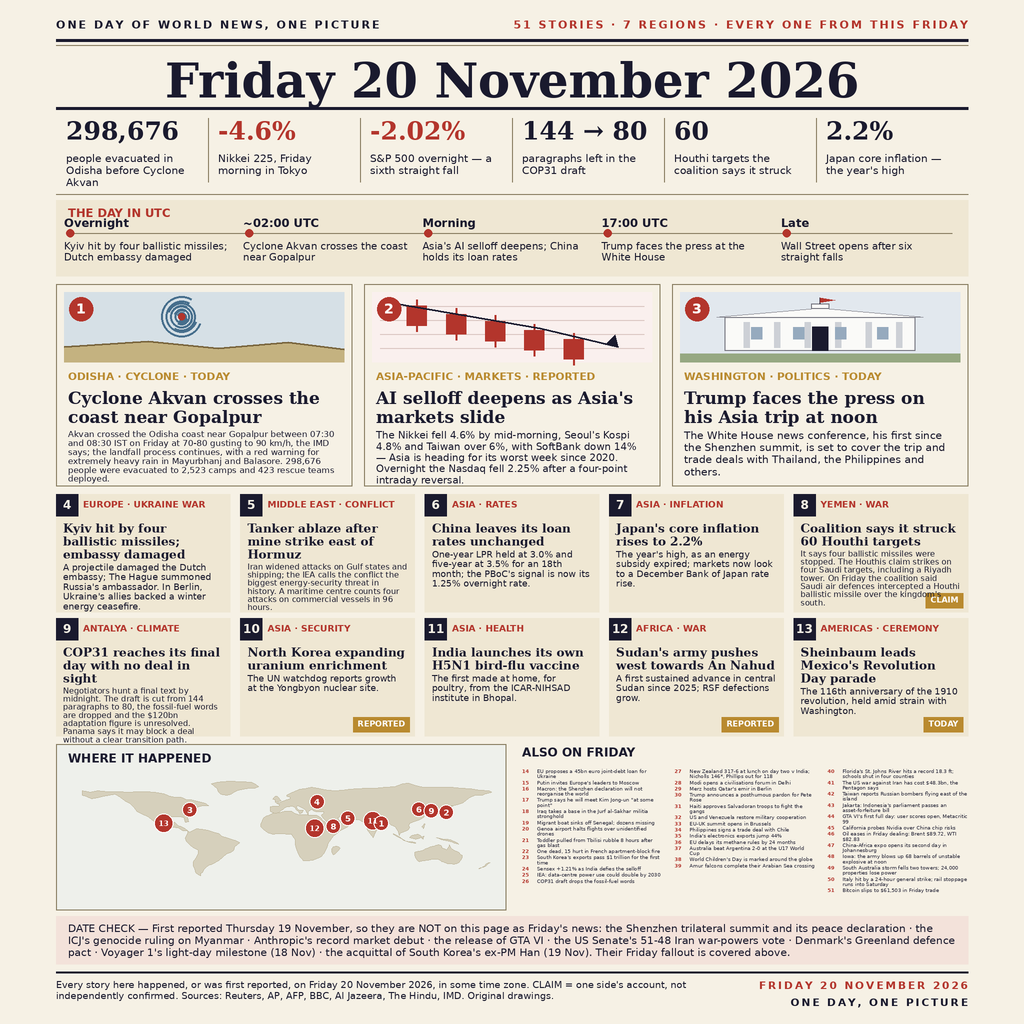
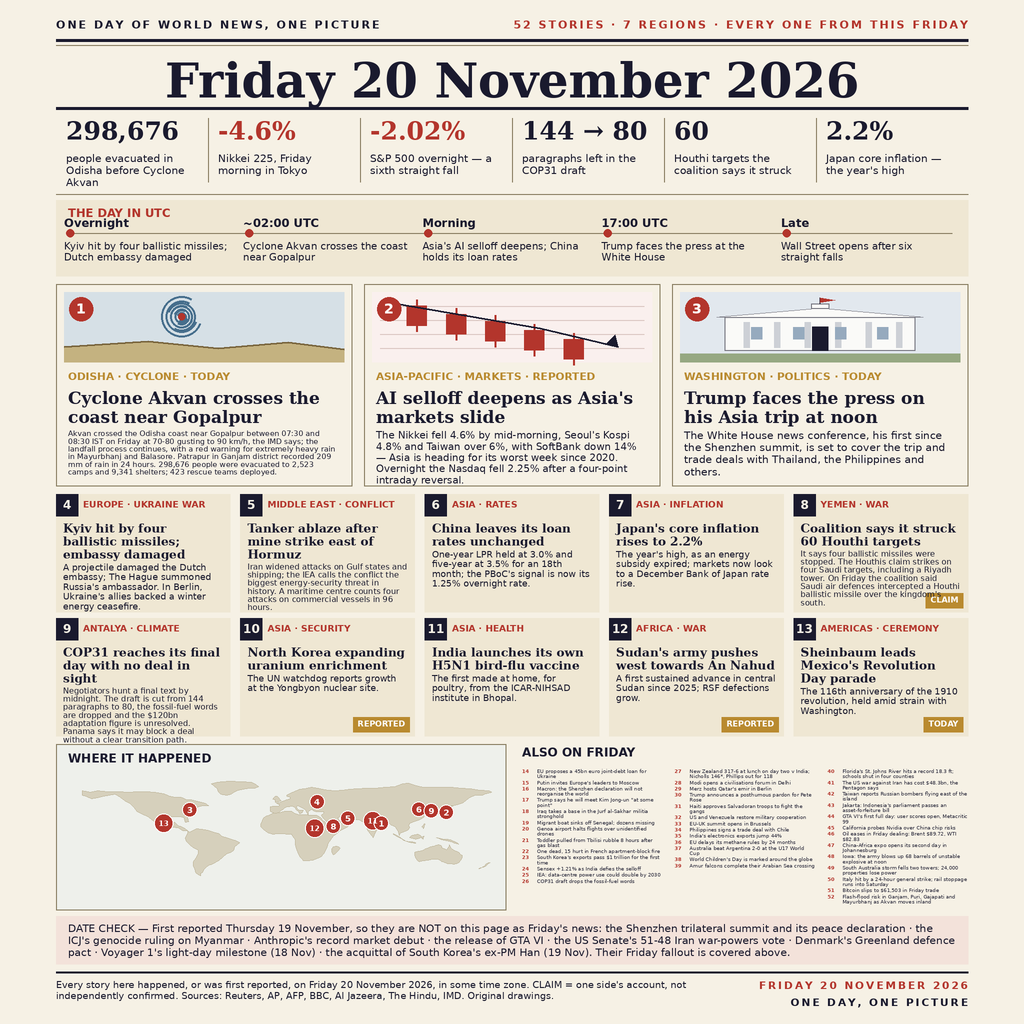
v6: Akvan rainfall 209mm + shelters, flash-flood brief, 52 stories

Changed region(s): [[0.0625, 0.4062, 0.3438, 0.4688], [0.8125, 0.875, 0.9062, 0.9062]]

diff --git a/build_poster.py b/build_poster.py
@@ -115,7 +115,7 @@ CW = 1024 - 2 * MX  # content width (final px)
 # ---------------------------------------------------------------- 1. kicker
 kf = sans_b(11)
 spaced(MX, 18, "ONE DAY OF WORLD NEWS, ONE PICTURE", kf, INK)
-spaced_right(1024 - MX, 18, "51 STORIES · 7 REGIONS · EVERY ONE FROM THIS FRIDAY", kf, RED)
+spaced_right(1024 - MX, 18, "52 STORIES · 7 REGIONS · EVERY ONE FROM THIS FRIDAY", kf, RED)
 hline(MX, 1024 - MX, 40, INK, 3)
 hline(MX, 1024 - MX, 45, HAIR, 1)
 
@@ -223,7 +223,7 @@ def art_whitehouse(x, y, w, h):
 # ---------------------------------------------------------------- 5. hero cards
 heroes = [
     ("1", "ODISHA · CYCLONE · TODAY", "Cyclone Akvan crosses the coast near Gopalpur",
-     "Akvan crossed the Odisha coast near Gopalpur between 07:30 and 08:30 IST on Friday at 70-80 gusting to 90 km/h, the IMD says; the landfall process continues, with a red warning for extremely heavy rain in Mayurbhanj and Balasore. 298,676 people were evacuated to 2,523 camps and 423 rescue teams deployed.", art_storm),
+     "Akvan crossed the Odisha coast near Gopalpur between 07:30 and 08:30 IST on Friday at 70-80 gusting to 90 km/h, the IMD says; the landfall process continues, with a red warning for extremely heavy rain in Mayurbhanj and Balasore. Patrapur in Ganjam district recorded 209 mm of rain in 24 hours. 298,676 people were evacuated to 2,523 camps and 9,341 shelters; 423 rescue teams deployed.", art_storm),
     ("2", "ASIA-PACIFIC · MARKETS · REPORTED", "AI selloff deepens as Asia's markets slide",
      "The Nikkei fell 4.6% by mid-morning, Seoul's Kospi 4.8% and Taiwan over 6%, with SoftBank down 14% — Asia is heading for its worst week since 2020. Overnight the Nasdaq fell 2.25% after a four-point intraday reversal.", art_chart),
     ("3", "WASHINGTON · POLITICS · TODAY", "Trump faces the press on his Asia trip at noon",
@@ -243,9 +243,10 @@ for i, (num, tag, head, dek, art) in enumerate(heroes):
     d.text((X(cx + 12), X(hy + 86)), tag, font=tagf, fill=GOLD)
     yy = draw_lines(cx + 12, hy + 104, wrap(head, hf, hw - 24), hf, INK, 1.12)
     # Heroes 1 and 2 have longer deks; they are set a touch smaller so each
-    # stays inside its card.
-    hdkf = {"1": sans(8.5), "2": sans(10.0)}.get(num, dkf)
-    hlead = {"1": 1.05, "2": 1.12}.get(num, 1.15)
+    # stays inside its card. Hero 1's dek grew again in v6 (Patrapur rain,
+    # shelter count), so it drops to 7.5/1.03 — 6 lines, ~11px to spare.
+    hdkf = {"1": sans(7.5), "2": sans(10.0)}.get(num, dkf)
+    hlead = {"1": 1.03, "2": 1.12}.get(num, 1.15)
     draw_lines(cx + 12, yy + 3, wrap(dek, hdkf, hw - 24), hdkf, INK, hlead)
 
 # ---------------------------------------------------------------- 6. story grid 4-13
@@ -409,6 +410,7 @@ briefs = [
     "South Australia storm fells two towers; 24,000 properties lose power",
     "Italy hit by a 24-hour general strike; rail stoppage runs into Saturday",
     "Bitcoin slips to $61,503 in Friday trade",
+    "Flash-flood risk in Ganjam, Puri, Gajapati and Mayurbhanj as Akvan moves inland",
 ]
 bcolw = (aw - 24) / 3
 per = (len(briefs) + 2) // 3
